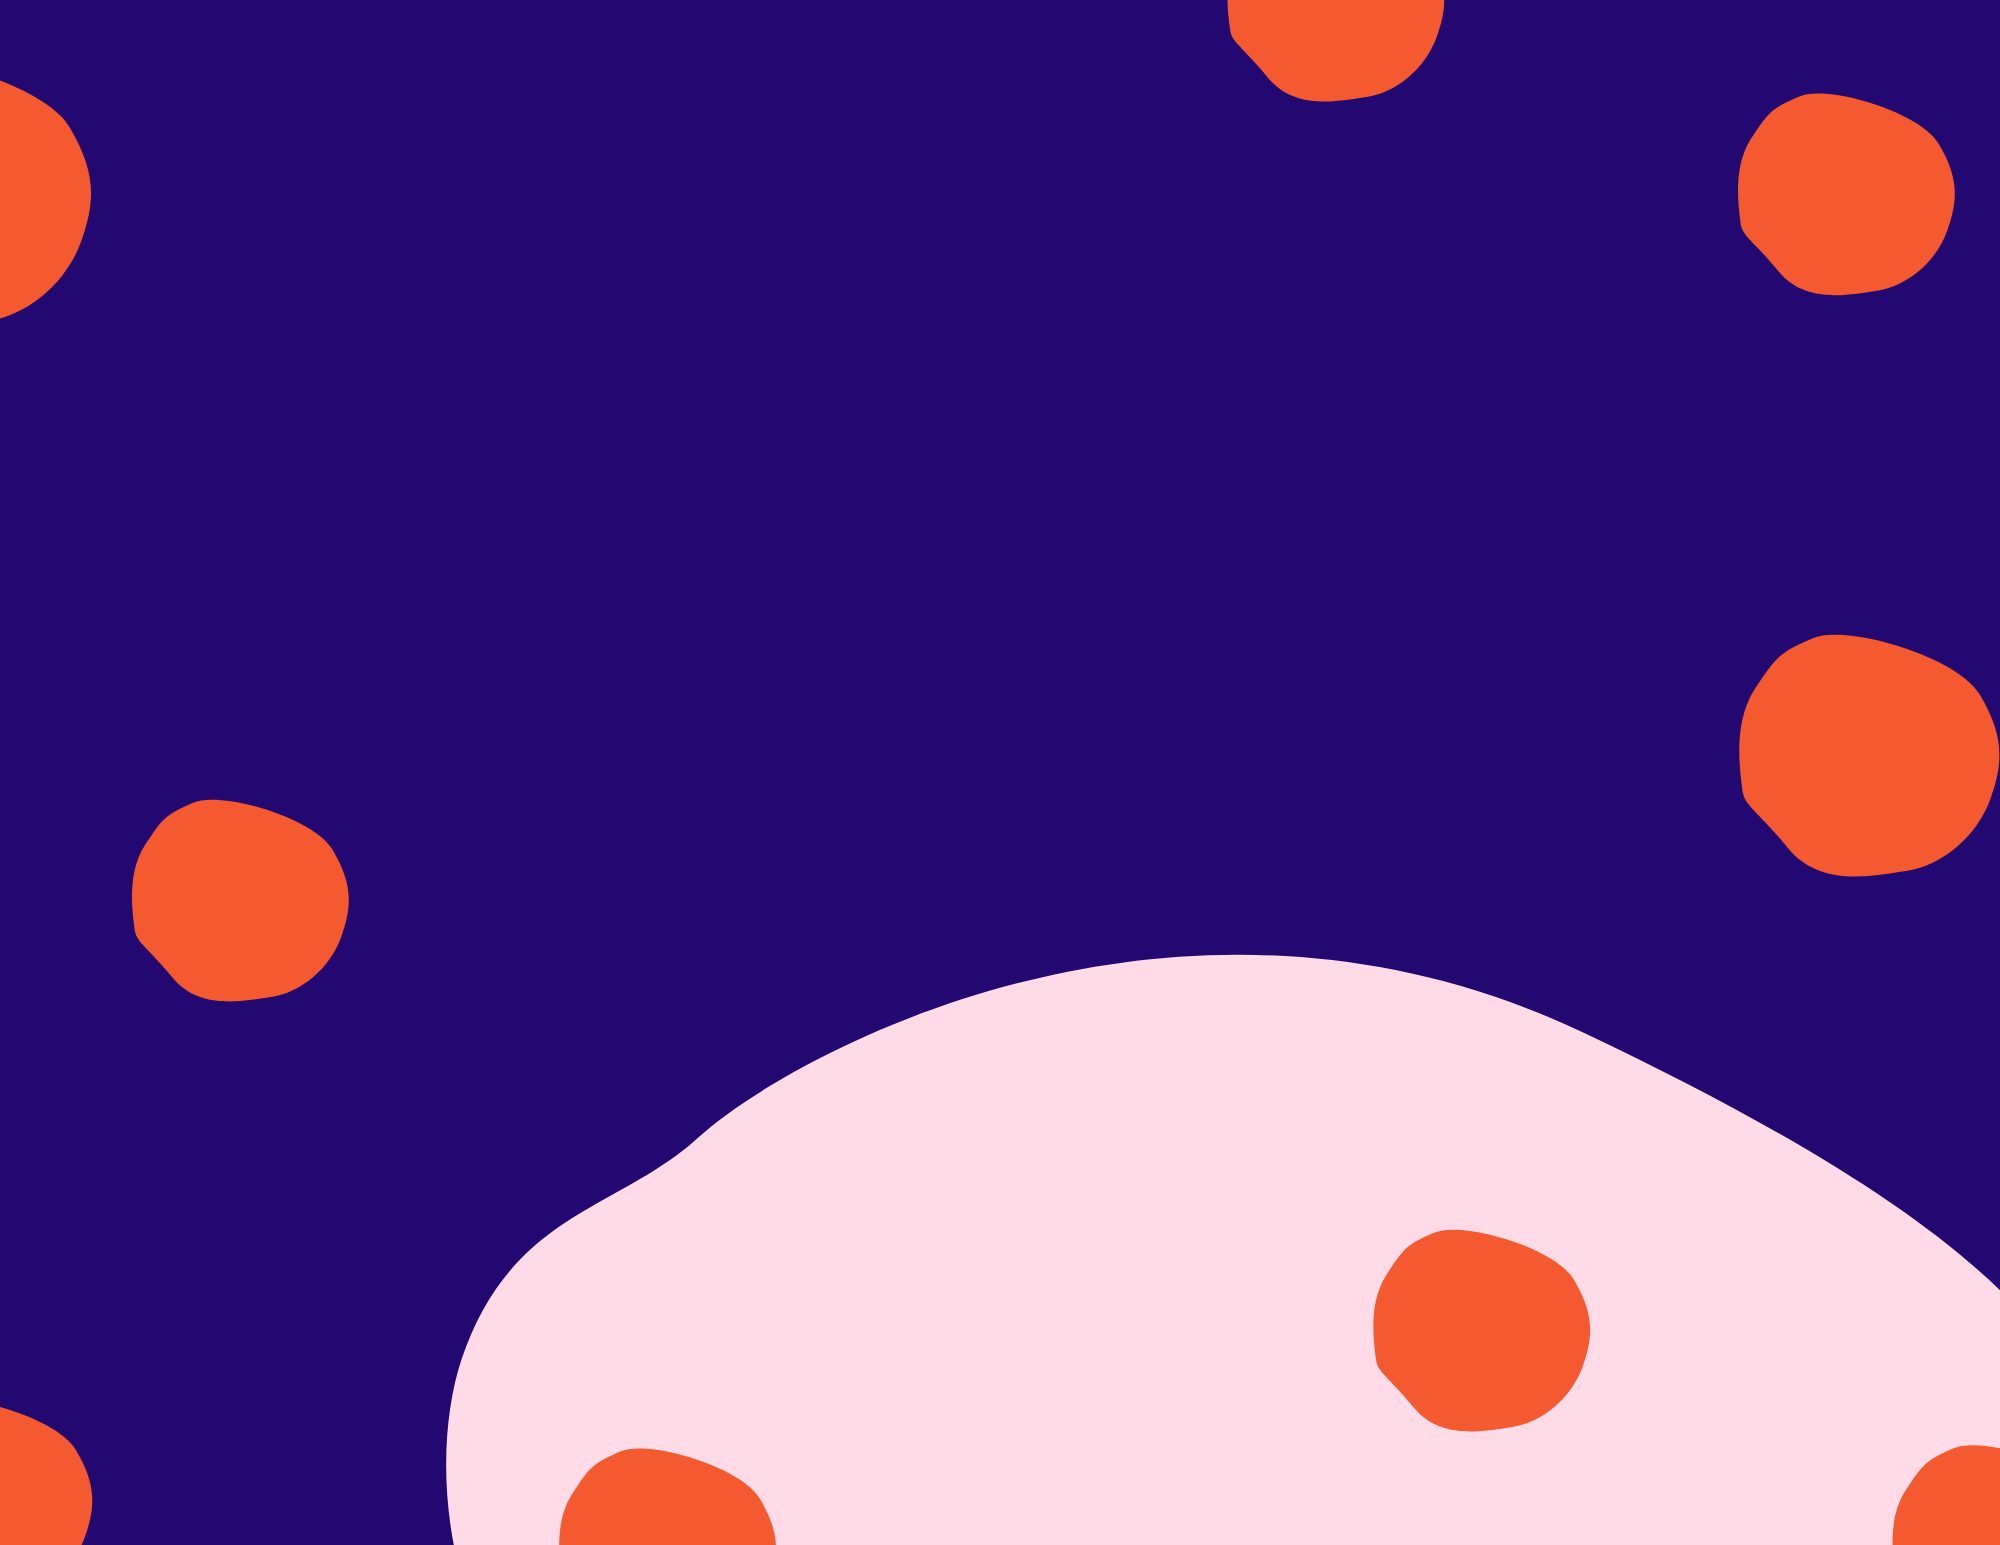
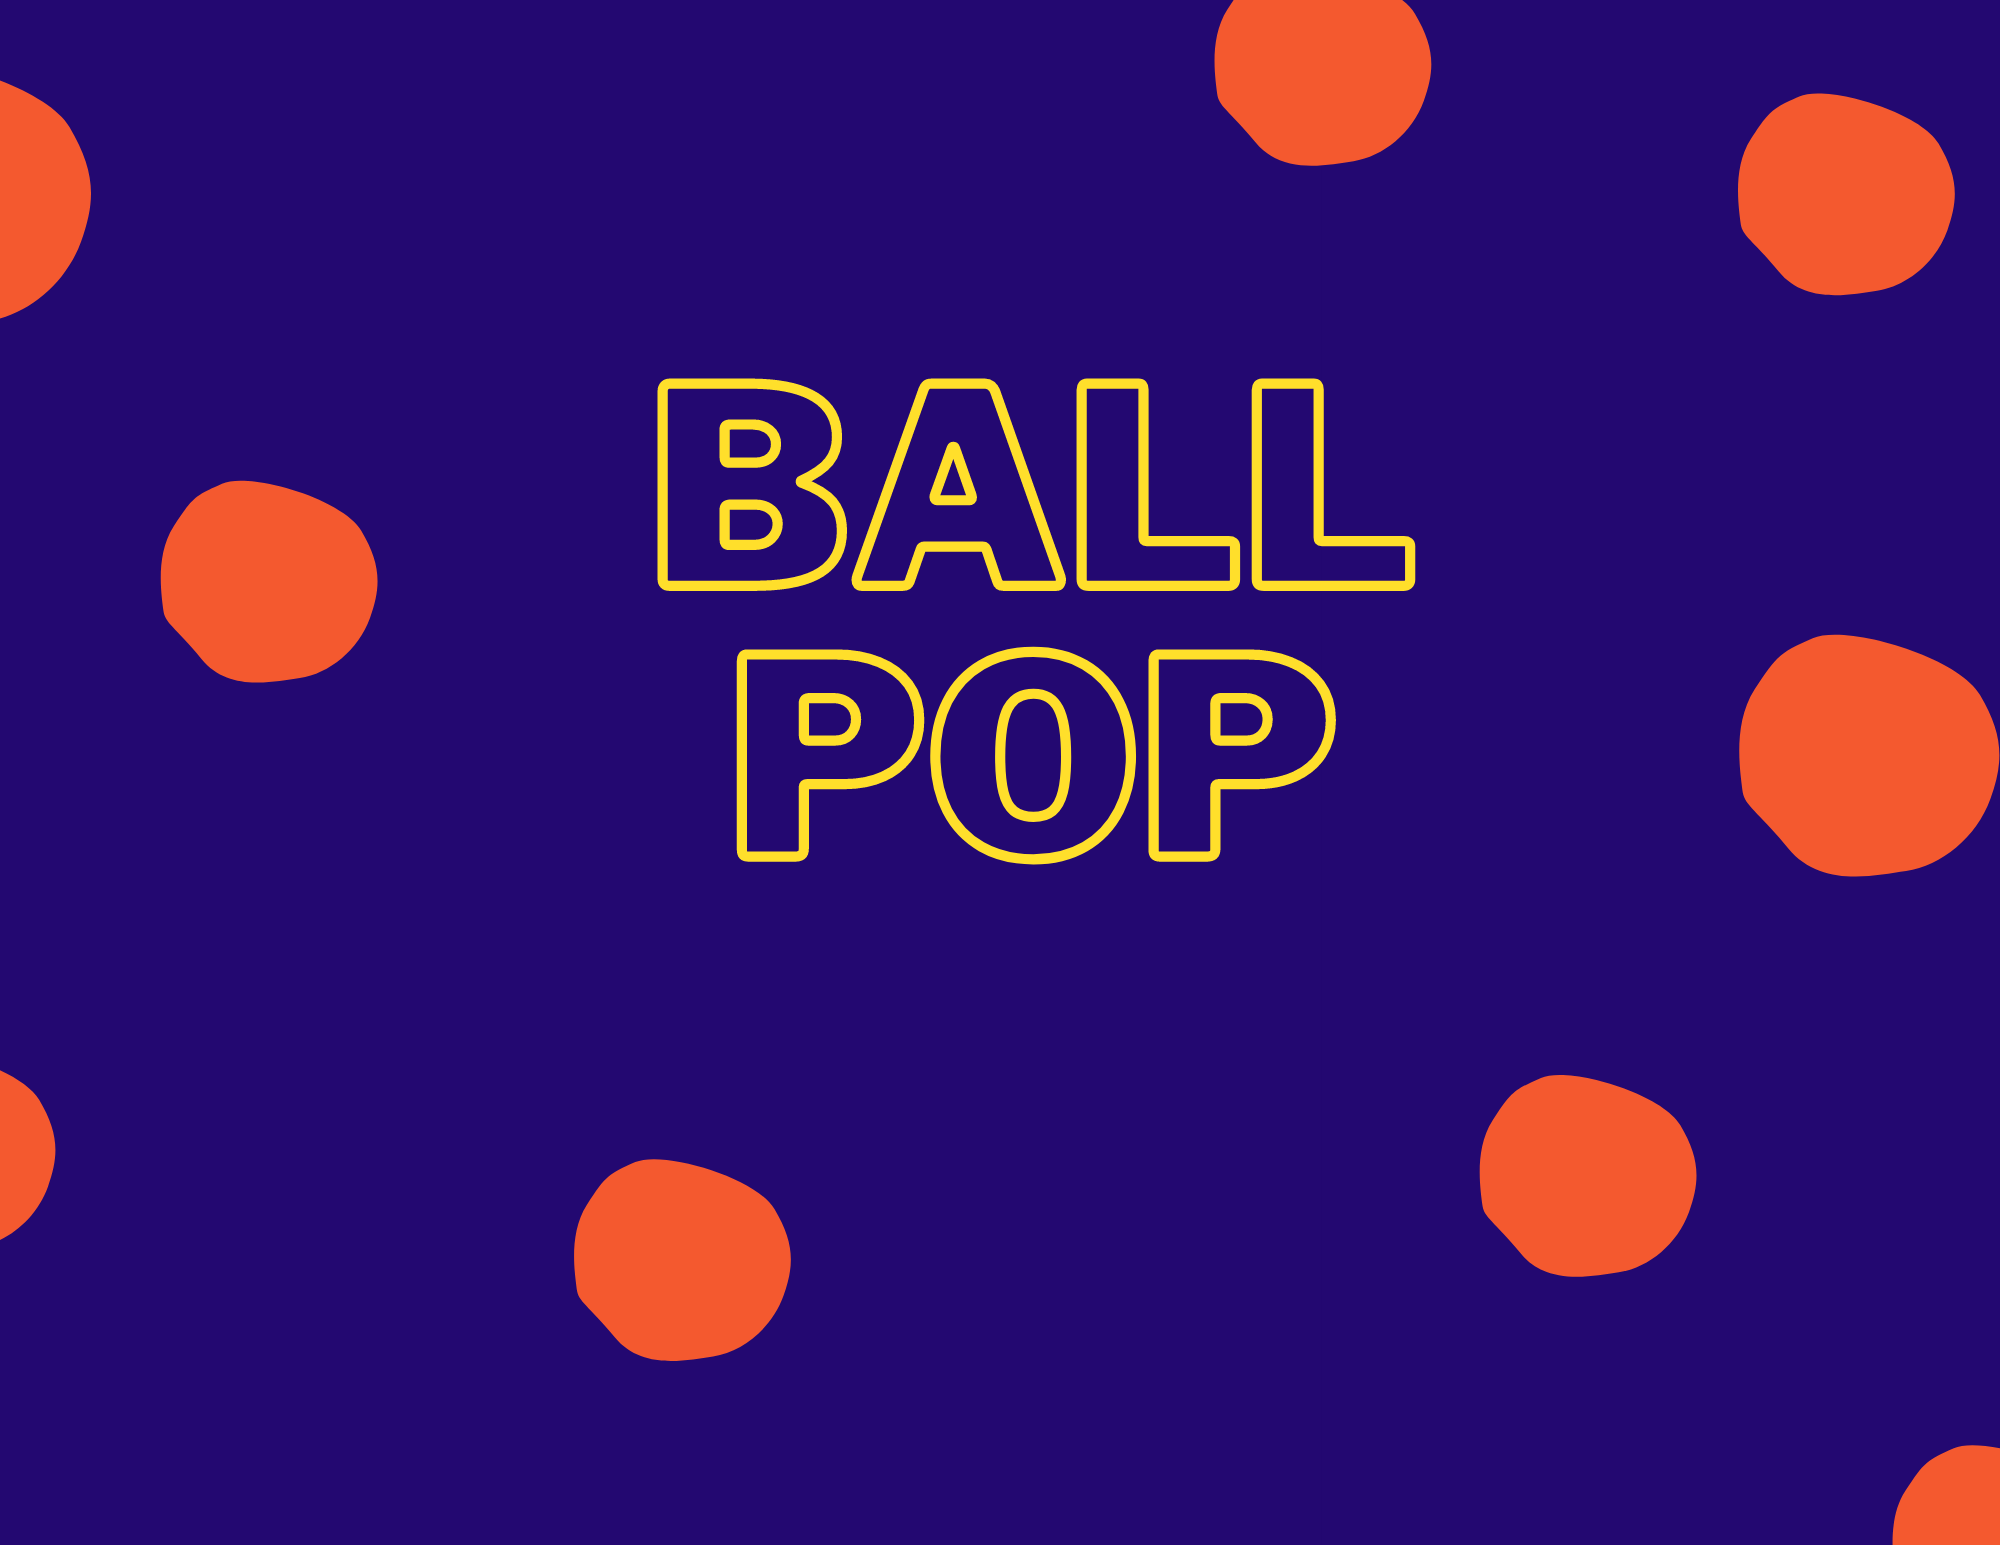
create and design the app home page

diff --git a/src/index.css b/src/index.css
@@ -1,16 +1,23 @@
-.app {
-  position: absolute;
-  top: 0;
-  left: 0;
-  width: 100%;
-  height: 100%;
-  background:url('./assets/wallpaper.png') no-repeat center center fixed;
-  -webkit-background-size: cover;
-  -moz-background-size: cover;
-  -o-background-size: cover;
+.wallpaper {
+  background:url('assets/wallpaper.png') repeat-y center fixed;
   background-size: cover;
+  z-index: -1;
 }
 
-@tailwind base;
-@tailwind components;
-@tailwind utilities;
+.home-buttons {
+  top: 70%;
+  left: 50%;
+}
+
+.home-buttons button {
+  background: #beff57;
+  font-family: arial, serif;
+}
+
+button:active {
+  transform: translateY(0.1em);
+}
+
+@media only screen and (max-width: 450px) {
+
+}

diff --git a/src/components/home/Home.jsx b/src/components/home/Home.jsx
@@ -1,9 +1,11 @@
 const Home = () => {
   return (
-    <div className={"text-center"}>
-      <div className={"text-center"}>
-        <p className="text-center">BALL</p>
-        <p>POP</p>
+    <div>
+      <div className={"wallpaper position-absolute w-100 h-100"}/>
+      <div className={"home-buttons position-absolute translate-middle text-center w-100"}>
+        <button className={"btn"}>Statistics</button>
+        <button className={"btn mx-4 fs-2"}>Play</button>
+        <button className={"btn"}>Guide</button>
       </div>
     </div>
   )

diff --git a/public/index.html b/public/index.html
@@ -10,6 +10,9 @@
       content="Web site created using create-react-app"
     />
     <link rel="apple-touch-icon" href="%PUBLIC_URL%/logo192.png" />
+    <link href="https://cdn.jsdelivr.net/npm/bootstrap@5.0.2/dist/css/bootstrap.min.css" rel="stylesheet"
+          integrity="sha384-EVSTQN3/azprG1Anm3QDgpJLIm9Nao0Yz1ztcQTwFspd3yD65VohhpuuCOmLASjC" crossorigin="anonymous"
+    />
 <!--    <link rel="manifest" href="%PUBLIC_URL%/manifest.json" />-->
     <title>Pop It</title>
   </head>

diff --git a/src/App.js b/src/App.js
@@ -2,7 +2,7 @@ import { Home } from './components'
 
 const App = () => {
   return (
-    <div className={"absolute bg-[url('./assets/wallpaper.png')]"}>
+    <div>
       <Home />
     </div>
   )
